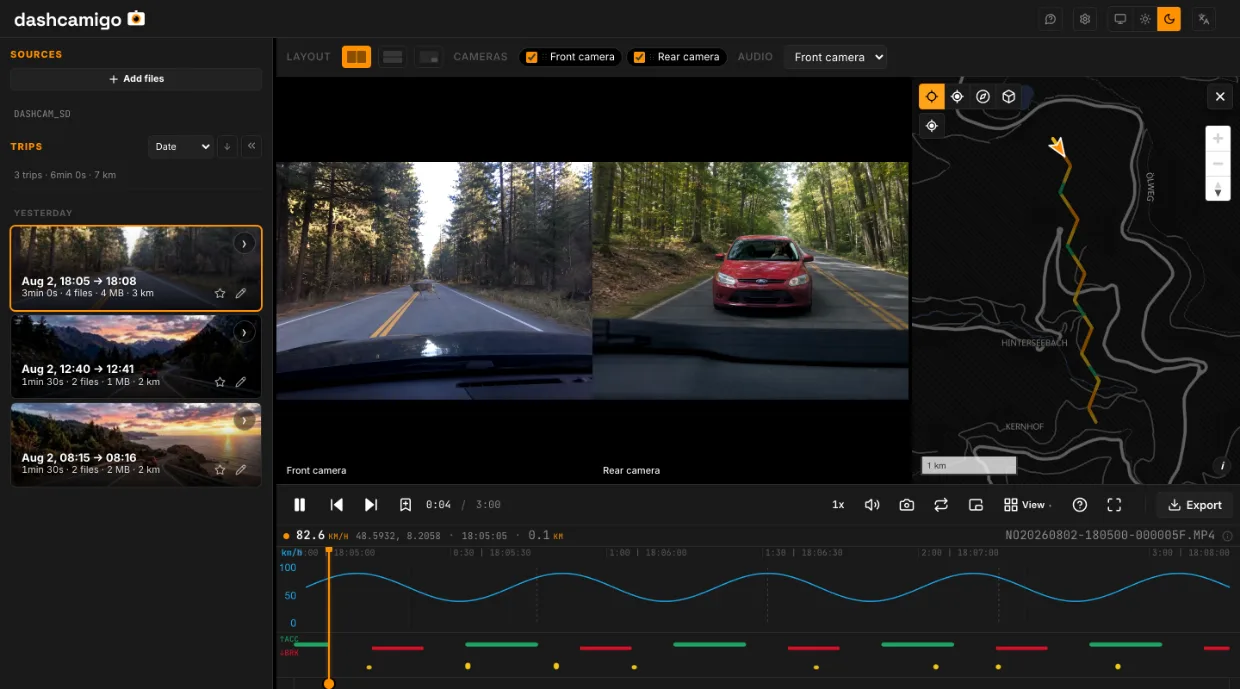
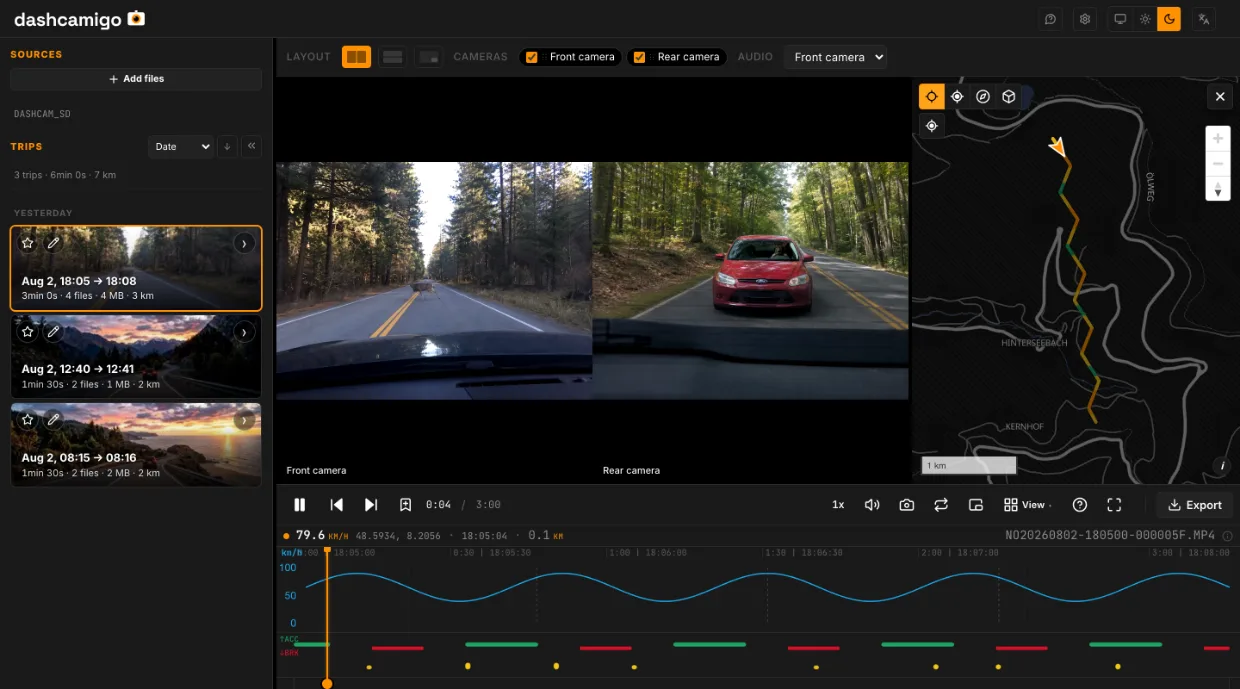
feat(trip-card): the star and pencil sit in the card's top-left corner
The annotation controls shared the meta row with the trip's duration/size/
distance line, at the far end of the text they were competing with for
width. They move into the free top-left corner, ahead of the badge chips in
the same flex row, and take the chevron's disc treatment: the top of a hero
preview carries no gradient, so a flat icon there would sit on whatever the
frame happens to show.

The chips keep the rest of the row and shrink first - on a minimum-width
sidebar carrying both a parking and a warning chip the second one now
ellipsises earlier than it used to.

The touch tap zones follow the buttons: they grow down and sideways instead
of upward, since the header clips whatever reaches past the card edge. The
mobile probe that asserts them waits for the browse-state slide to settle -
a card measured mid-transition still hangs off the left edge, which made
every hit-test land outside the viewport.

diff --git a/src/ui/sidebar.ts b/src/ui/sidebar.ts
@@ -167,6 +167,39 @@ export function renderTrips(): void {
     dom.list.setAttribute("aria-busy", state.trips.some(tripHasPending) ? "true" : "false");
 }
 
+/** The card's annotation controls - favorite star, name/note pencil - as one
+ *  row for the header's top-left corner. Both carry data-action, so the
+ *  delegated list listener drives them. */
+function buildTripActions(tripIdx: number, isFavorite: boolean): HTMLElement {
+    const actions = document.createElement("span");
+    actions.className = "trip-card-actions";
+    const favBtn = document.createElement("button");
+    favBtn.type = "button";
+    favBtn.className = "trip-card-action trip-fav";
+    if (isFavorite) favBtn.classList.add("is-on");
+    const favLabel = isFavorite ? t("trip.fav.remove") : t("trip.fav.add");
+    favBtn.title = favLabel;
+    favBtn.setAttribute("aria-label", favLabel);
+    favBtn.setAttribute("aria-pressed", isFavorite ? "true" : "false");
+    favBtn.dataset.action = "trip-fav";
+    favBtn.dataset.tripIndex = String(tripIdx);
+    // Lucide star; fill switches on via CSS when .is-on.
+    favBtn.innerHTML = `<svg width="14" height="14" viewBox="0 0 24 24" fill="none" stroke="currentColor" stroke-width="2" stroke-linecap="round" stroke-linejoin="round" aria-hidden="true"><path d="M11.525 2.295a.53.53 0 0 1 .95 0l2.31 4.679a2.123 2.123 0 0 0 1.595 1.16l5.166.756a.53.53 0 0 1 .294.904l-3.736 3.638a2.123 2.123 0 0 0-.611 1.878l.882 5.14a.53.53 0 0 1-.771.56l-4.618-2.428a2.122 2.122 0 0 0-1.973 0L6.396 21.01a.53.53 0 0 1-.77-.56l.881-5.139a2.122 2.122 0 0 0-.611-1.879L2.16 9.795a.53.53 0 0 1 .294-.906l5.165-.755a2.122 2.122 0 0 0 1.597-1.16z"/></svg>`;
+    actions.appendChild(favBtn);
+    const editBtn = document.createElement("button");
+    editBtn.type = "button";
+    editBtn.className = "trip-card-action trip-edit";
+    const editLabel = t("trip.editMeta");
+    editBtn.title = editLabel;
+    editBtn.setAttribute("aria-label", editLabel);
+    editBtn.dataset.action = "trip-edit";
+    editBtn.dataset.tripIndex = String(tripIdx);
+    // Lucide pencil.
+    editBtn.innerHTML = `<svg width="14" height="14" viewBox="0 0 24 24" fill="none" stroke="currentColor" stroke-width="2" stroke-linecap="round" stroke-linejoin="round" aria-hidden="true"><path d="M21.174 6.812a1 1 0 0 0-3.986-3.987L3.842 16.174a2 2 0 0 0-.5.83l-1.321 4.352a.5.5 0 0 0 .623.622l4.353-1.32a2 2 0 0 0 .83-.497z"/><path d="m15 5 4 4"/></svg>`;
+    actions.appendChild(editBtn);
+    return actions;
+}
+
 /**
  * Builds one trip card <li> (header, hero/loading state, chips, meta, clip list).
  * Extracted from renderTrips so a single card can be rebuilt in place
@@ -261,10 +294,12 @@ function buildTripCard(trip: Trip, tripIdx: number): HTMLLIElement {
     chevron.dataset.tripIndex = String(tripIdx);
     header.appendChild(chevron);
 
-    // Trip-level chips in the top-left badge slot - one flex row, so the
-    // parking badge and a warning coexist without overlapping. Read-failed
-    // still takes priority over "no GPS": an unreadable clip is the more
-    // important signal, and it has no records anyway.
+    // Top-left corner cluster: the annotation controls first (in the corner
+    // proper, where they are always in the same place), then the trip-level
+    // chips. One flex row, so a parking badge and a warning coexist without
+    // overlapping and neither hides a button. Read-failed takes priority over
+    // "no GPS": an unreadable clip is the more important signal, and it has no
+    // records anyway.
     const badgeChips: HTMLElement[] = [];
     if (trip.isParking) {
         const parkingChip = document.createElement("span");
@@ -286,12 +321,11 @@ function buildTripCard(trip: Trip, tripIdx: number): HTMLLIElement {
         noGpsChip.textContent = t("trip.chip.noGps");
         badgeChips.push(noGpsChip);
     }
-    if (badgeChips.length > 0) {
-        const badgeSlot = document.createElement("div");
-        badgeSlot.className = "trip-badge-slot";
-        for (const chip of badgeChips) badgeSlot.appendChild(chip);
-        header.appendChild(badgeSlot);
-    }
+    const cornerSlot = document.createElement("div");
+    cornerSlot.className = "trip-corner-slot";
+    cornerSlot.appendChild(buildTripActions(tripIdx, tripMeta?.isFavorite === true));
+    for (const chip of badgeChips) cornerSlot.appendChild(chip);
+    header.appendChild(cornerSlot);
     // UX-08: red outline chip showing event count. Clickable, cycles to the next trip event (seek -5s).
     // Top-right corner left of the chevron - both group into the actions zone.
     if (trip.events.length > 0) {
@@ -316,37 +350,6 @@ function buildTripCard(trip: Trip, tripIdx: number): HTMLLIElement {
     metaText.textContent = formatTripMeta(trip, lazyState);
     if (lazyState !== "loaded") metaText.classList.add(`lazy-${lazyState}`);
     meta.appendChild(metaText);
-
-    // Annotation controls in the meta row (the header's top corners belong to
-    // the badge chips / event chip / chevron): favorite star + name/note pencil.
-    const metaActions = document.createElement("span");
-    metaActions.className = "trip-meta-actions";
-    const isFavorite = tripMeta?.isFavorite === true;
-    const favBtn = document.createElement("button");
-    favBtn.type = "button";
-    favBtn.className = "trip-meta-action trip-fav";
-    if (isFavorite) favBtn.classList.add("is-on");
-    const favLabel = isFavorite ? t("trip.fav.remove") : t("trip.fav.add");
-    favBtn.title = favLabel;
-    favBtn.setAttribute("aria-label", favLabel);
-    favBtn.setAttribute("aria-pressed", isFavorite ? "true" : "false");
-    favBtn.dataset.action = "trip-fav";
-    favBtn.dataset.tripIndex = String(tripIdx);
-    // Lucide star; fill switches on via CSS when .is-on.
-    favBtn.innerHTML = `<svg width="13" height="13" viewBox="0 0 24 24" fill="none" stroke="currentColor" stroke-width="2" stroke-linecap="round" stroke-linejoin="round" aria-hidden="true"><path d="M11.525 2.295a.53.53 0 0 1 .95 0l2.31 4.679a2.123 2.123 0 0 0 1.595 1.16l5.166.756a.53.53 0 0 1 .294.904l-3.736 3.638a2.123 2.123 0 0 0-.611 1.878l.882 5.14a.53.53 0 0 1-.771.56l-4.618-2.428a2.122 2.122 0 0 0-1.973 0L6.396 21.01a.53.53 0 0 1-.77-.56l.881-5.139a2.122 2.122 0 0 0-.611-1.879L2.16 9.795a.53.53 0 0 1 .294-.906l5.165-.755a2.122 2.122 0 0 0 1.597-1.16z"/></svg>`;
-    metaActions.appendChild(favBtn);
-    const editBtn = document.createElement("button");
-    editBtn.type = "button";
-    editBtn.className = "trip-meta-action trip-edit";
-    const editLabel = t("trip.editMeta");
-    editBtn.title = editLabel;
-    editBtn.setAttribute("aria-label", editLabel);
-    editBtn.dataset.action = "trip-edit";
-    editBtn.dataset.tripIndex = String(tripIdx);
-    // Lucide pencil.
-    editBtn.innerHTML = `<svg width="13" height="13" viewBox="0 0 24 24" fill="none" stroke="currentColor" stroke-width="2" stroke-linecap="round" stroke-linejoin="round" aria-hidden="true"><path d="M21.174 6.812a1 1 0 0 0-3.986-3.987L3.842 16.174a2 2 0 0 0-.5.83l-1.321 4.352a.5.5 0 0 0 .623.622l4.353-1.32a2 2 0 0 0 .83-.497z"/><path d="m15 5 4 4"/></svg>`;
-    metaActions.appendChild(editBtn);
-    meta.appendChild(metaActions);
     header.appendChild(meta);
 
     // Click on header (but not chevron) is handled by the delegated listener in initSidebar.

diff --git a/tests/e2e/mobile.spec.ts b/tests/e2e/mobile.spec.ts
@@ -125,8 +125,8 @@ test.describe("mobile portrait", () => {
 
 // A real phone reports a coarse pointer, which the other describes above do not
 // emulate (setViewportSize alone leaves the pointer fine). The trip card packs
-// an absolutely-placed title over a meta row whose touch-sized controls used to
-// stretch that row upward - a layout only this emulation reproduces.
+// an absolutely-placed title over a meta row, and its corner controls carry
+// touch-only tap zones - neither shows up without this emulation.
 test.describe("mobile portrait, touch pointer", () => {
     test.use({ hasTouch: true, isMobile: true });
 
@@ -144,6 +144,22 @@ test.describe("mobile portrait, touch pointer", () => {
         // The ingest overlay covers the list while previews are still being
         // generated - hit-testing the card underneath would only find the scrim.
         await expect(page.locator("#ingest-overlay")).toBeHidden({ timeout: 30_000 });
+        // Entering the browse state slides the list in from off-canvas. A card
+        // measured mid-transition still hangs off the left edge, and every
+        // hit-test below then probes a point outside the viewport. Two matching
+        // reads, a poll interval apart, mean the slide is over.
+        let previousX = Number.NaN;
+        await expect
+            .poll(
+                async () => {
+                    const x = (await card.boundingBox())?.x ?? Number.NaN;
+                    const settled = x === previousX;
+                    previousX = x;
+                    return settled;
+                },
+                { message: "the trip list must finish sliding in before it is measured" },
+            )
+            .toBe(true);
 
         const geometry = await page.evaluate(() => {
             const trip = document.querySelector("li.trip:not(.unindexed-note)") as HTMLElement;
@@ -151,7 +167,9 @@ test.describe("mobile portrait, touch pointer", () => {
             const favourite = trip.querySelector(".trip-fav") as HTMLElement;
             const favouriteBox = favourite.getBoundingClientRect();
             // The tap zone is a pseudo-element, invisible to getBoundingClientRect -
-            // probe it through hit-testing instead, above and below the icon.
+            // probe it through hit-testing instead. Down and left: the star sits in
+            // the card's top-left corner, so those are the directions it can grow
+            // (the header clips whatever reaches past its edges).
             const actionAt = (x: number, y: number) =>
                 (document.elementFromPoint(x, y) as HTMLElement | null)
                     ?.closest("[data-action]")
@@ -160,8 +178,8 @@ test.describe("mobile portrait, touch pointer", () => {
                 title: rect(".trip-title"),
                 metaText: rect(".trip-meta-text"),
                 header: rect(".trip-header"),
-                favouriteAbove: actionAt(favouriteBox.left + 11, favouriteBox.top - 7),
-                favouriteBelow: actionAt(favouriteBox.left + 11, favouriteBox.bottom + 5),
+                favouriteLeft: actionAt(favouriteBox.left - 3, favouriteBox.top + 13),
+                favouriteBelow: actionAt(favouriteBox.left + 13, favouriteBox.bottom + 5),
             };
         });
         const { title, metaText, header } = geometry;
@@ -172,8 +190,8 @@ test.describe("mobile portrait, touch pointer", () => {
             (metaText?.top ?? 0) + 1,
         );
         expect(metaText?.bottom ?? 0, "the meta line stays inside the card").toBeLessThanOrEqual(header?.bottom ?? 0);
-        // Touch reach: the star keeps a tap zone well past its 22px icon box.
-        expect(geometry.favouriteAbove, "the star is tappable above its icon").toBe("trip-fav");
+        // Touch reach: the star keeps a tap zone well past its 26px icon box.
+        expect(geometry.favouriteLeft, "the star is tappable left of its icon").toBe("trip-fav");
         expect(geometry.favouriteBelow, "the star is tappable below its icon").toBe("trip-fav");
     });
 });

diff --git a/src/styles/components/trip-annotations.css b/src/styles/components/trip-annotations.css
@@ -1,68 +1,77 @@
-/* Trip annotation surfaces: the star/pencil cluster in the card's meta row,
-   the note line under the header, and the name/note editor fields. */
+/* Trip annotation surfaces: the star/pencil pair in the card's top-left
+   corner, the note line under the header, and the name/note editor fields. */
 
-.trip-meta-actions {
+.trip-card-actions {
     display: inline-flex;
     align-items: center;
-    gap: 2px;
+    gap: 4px;
     flex-shrink: 0;
+    /* The corner slot around it is inert so its chips do not eat card clicks. */
+    pointer-events: auto;
 }
 
-.trip-meta-action {
+/* Same disc as the chevron in the opposite corner: the top of a hero preview
+   carries no gradient, so a bare icon would sit on whatever the frame shows. */
+.trip-card-action {
     position: relative;
     display: inline-flex;
     align-items: center;
     justify-content: center;
-    width: 22px;
-    height: 22px;
+    width: 26px;
+    height: 26px;
     padding: 0;
-    background: transparent;
-    border: none;
-    border-radius: var(--dc-radius-sm);
-    /* Inherit from .trip-meta: over a hero preview the meta row switches to
-       light-on-dark, and an own fg-mute here would go dark-on-dark. */
-    color: inherit;
-    opacity: 0.75;
+    background: rgba(0, 0, 0, 0.45);
+    border: 1px solid rgba(255, 255, 255, 0.2);
+    border-radius: 50%;
+    color: var(--dc-white);
     cursor: pointer;
+    transition: background var(--dc-dur-fast) var(--dc-ease);
+}
+.trip-header:not(.has-preview) .trip-card-action {
+    background: var(--bg-elev);
+    border-color: var(--border);
+    color: var(--fg);
 }
 
-.trip-meta-action:hover {
-    opacity: 1;
-    background: rgba(128, 128, 128, 0.25);
+.trip-card-action:hover {
+    background: rgba(0, 0, 0, 0.7);
+}
+/* Hover moves the disc, not the icon color: recoloring would fight the gold of
+   a favorited star for the one button where it matters most. */
+.trip-header:not(.has-preview) .trip-card-action:hover {
+    background: var(--bg-hover);
 }
 
-/* Touch: 22px is a guaranteed miss next to the play-trip header. Grow only the
+/* Touch: 26px is a guaranteed miss next to the play-trip header. Grow only the
    tap area via a pseudo-element (same trick as the corner badges in
-   sidebar.css) - growing the button box itself stretches the meta row, and the
-   row's centered text then rides up under the absolutely-placed title.
-   Downward reach stops at the row's 8px bottom inset: the header clips
-   overflow, so anything past the card edge is dead area. Each zone is biased
-   away from its neighbour (star grows left, pencil right) so the two do not
-   overlap across the 2px gap. */
+   sidebar.css) - a bigger button box would crowd the chips beside it. Upward
+   reach stops at the 6px corner inset: the header clips overflow, so anything
+   past the card edge is dead area. Each zone is biased away from its neighbour
+   (star grows left, pencil right) so the two do not overlap across the gap. */
 @media (pointer: coarse) {
-    .trip-meta-action::before {
+    .trip-card-action::before {
         content: "";
         position: absolute;
-        inset: -11px -1px -8px -1px;
+        inset: -6px -2px -14px -2px;
     }
     .trip-fav::before {
-        left: -12px;
+        left: -6px;
     }
     .trip-edit::before {
-        right: -12px;
+        right: -6px;
     }
 }
 
-.trip-meta-action:focus-visible {
+.trip-card-action:focus-visible {
     outline: 2px solid var(--accent);
     outline-offset: -2px;
 }
 
-/* Filled golden star for a favorited trip - readable at 13px where a stroke
-   color change alone is not. */
-.trip-fav.is-on {
+/* Filled golden star for a favorited trip - readable at 14px where a stroke
+   color change alone is not. Specific enough to outrank the no-preview icon
+   color above, which would otherwise repaint the star on a placeholder card. */
+.trip-header .trip-card-action.trip-fav.is-on {
     color: var(--warn);
-    opacity: 1;
 }
 .trip-fav.is-on svg {
     fill: currentColor;

diff --git a/src/styles/components/sidebar.css b/src/styles/components/sidebar.css
@@ -309,24 +309,18 @@
     color: rgba(255, 255, 255, 0.85);
     font-variant-numeric: tabular-nums;
     text-shadow: 0 1px 2px rgba(0, 0, 0, 0.6);
-    /* Flex row: the text is the shrinkable side, the annotation buttons
-       (star/pencil) are fixed - without this the nowrap text pushes the
-       buttons past the right edge and overflow:hidden clips them away on a
-       narrow sidebar. */
     display: flex;
     align-items: center;
     gap: var(--dc-space-1);
-    /* No overflow:hidden here - the text child clips itself, and the row must let
-       the touch hit-zones of the annotation buttons grow past its 22px height
-       (trip-annotations.css). The header still clips at the card edge. */
+    /* No overflow:hidden here - the text child clips itself, and the header
+       already clips at the card edge. */
     white-space: nowrap;
 }
 .trip-meta .trip-meta-text {
     /* Single-line text with ellipsis on overflow - on a min-width sidebar
        (200px) a long meta like "1h 32m - 14 files - 187 km" gets truncated
-       instead of wrapping/overflowing. min-width:0 is needed so the flex
-       item can shrink below its content-size (the buttons on the right are
-       fixed-width). */
+       instead of wrapping/overflowing. min-width:0 lets the flex item shrink
+       below its content-size. */
     flex: 1;
     overflow: hidden;
     text-overflow: ellipsis;
@@ -343,15 +337,17 @@
     color: var(--fg);
 }
 
-/* Top-left badge slot on the hero card: one flex row so the parking badge
-   and a warning chip coexist without overlapping. The slot owns the corner
-   positioning; the chips inside stay in flow. */
-.trip-badge-slot {
+/* Top-left corner slot on the hero card: one flex row holding the annotation
+   buttons and then the badge chips, so they never overlap. The slot owns the
+   corner positioning; its children stay in flow. Inert by default - only the
+   buttons opt back into pointer events, so a chip never eats a card click. */
+.trip-corner-slot {
     position: absolute;
     top: 6px;
     left: 6px;
     z-index: 2;
     display: flex;
+    align-items: center;
     gap: var(--dc-space-1);
     max-width: calc(100% - 80px); /* yields room for chevron+event-chip on the right */
     pointer-events: none;
